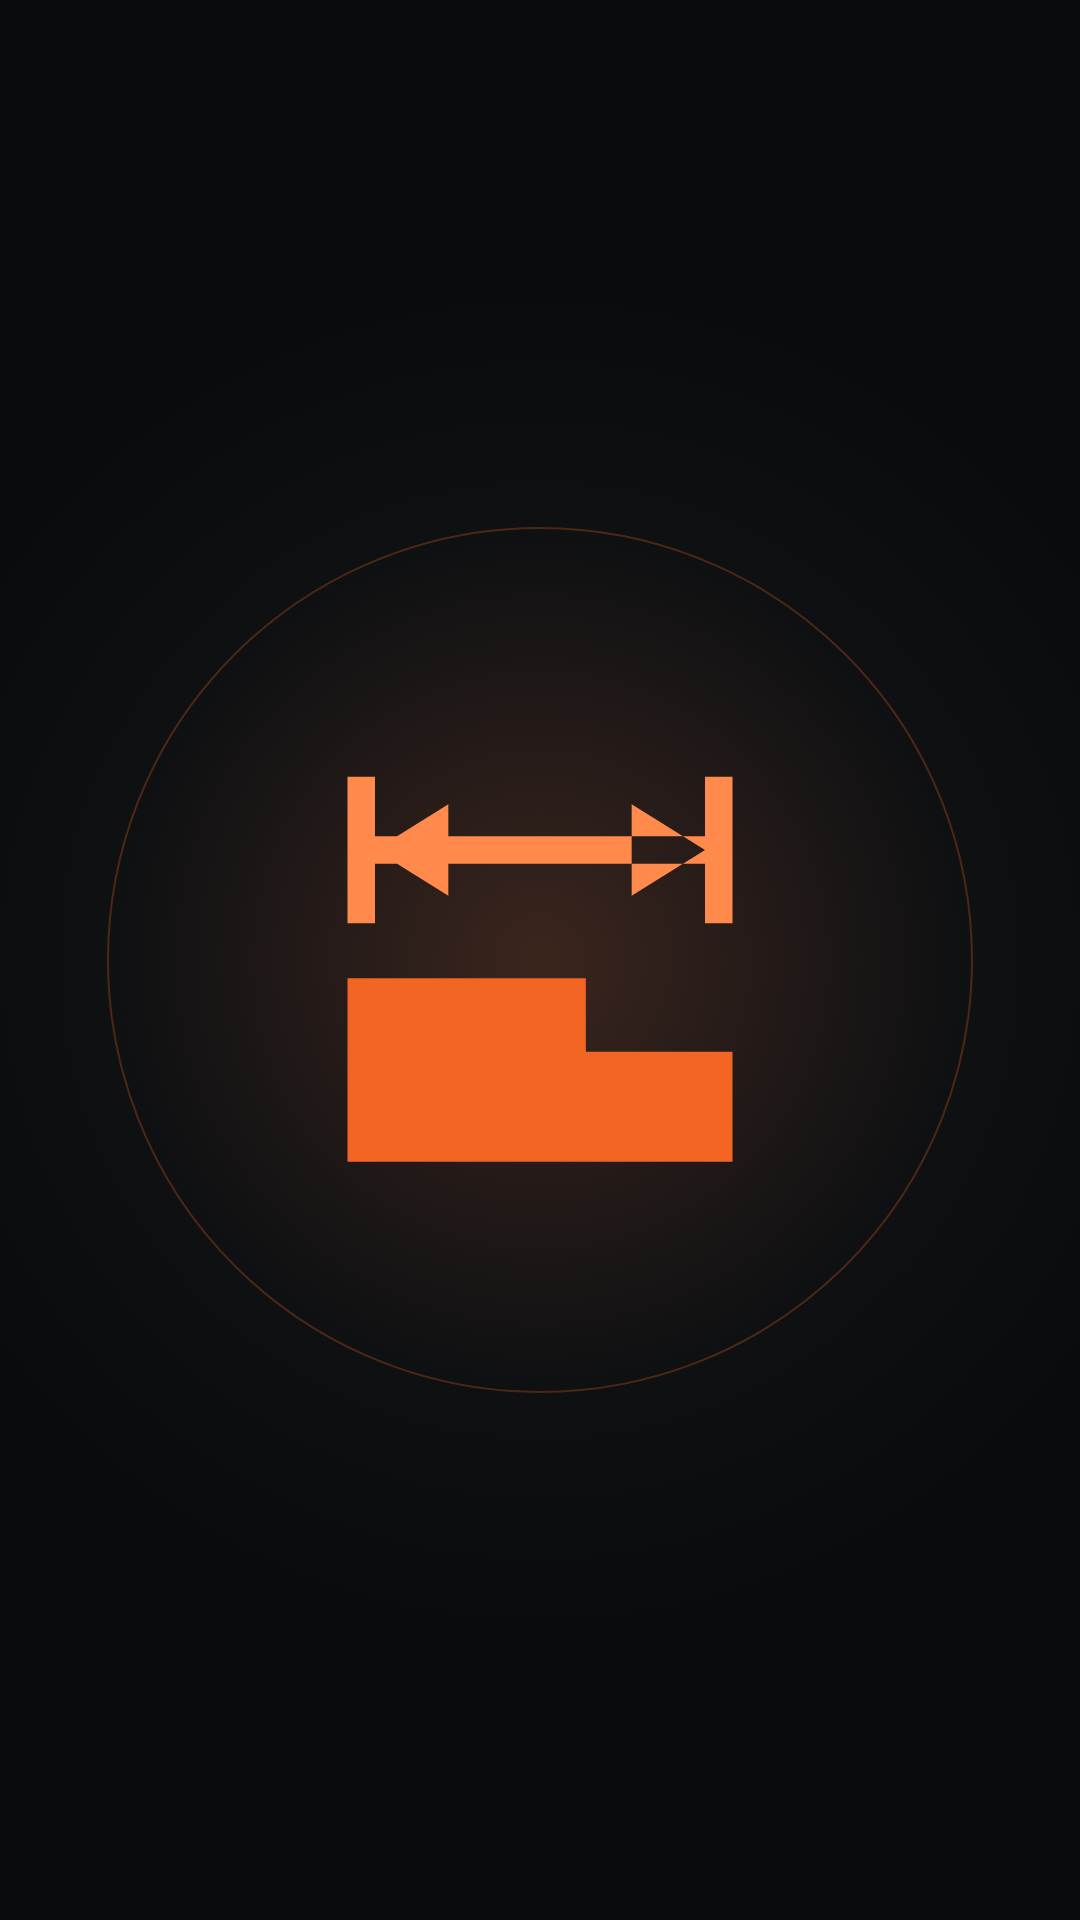
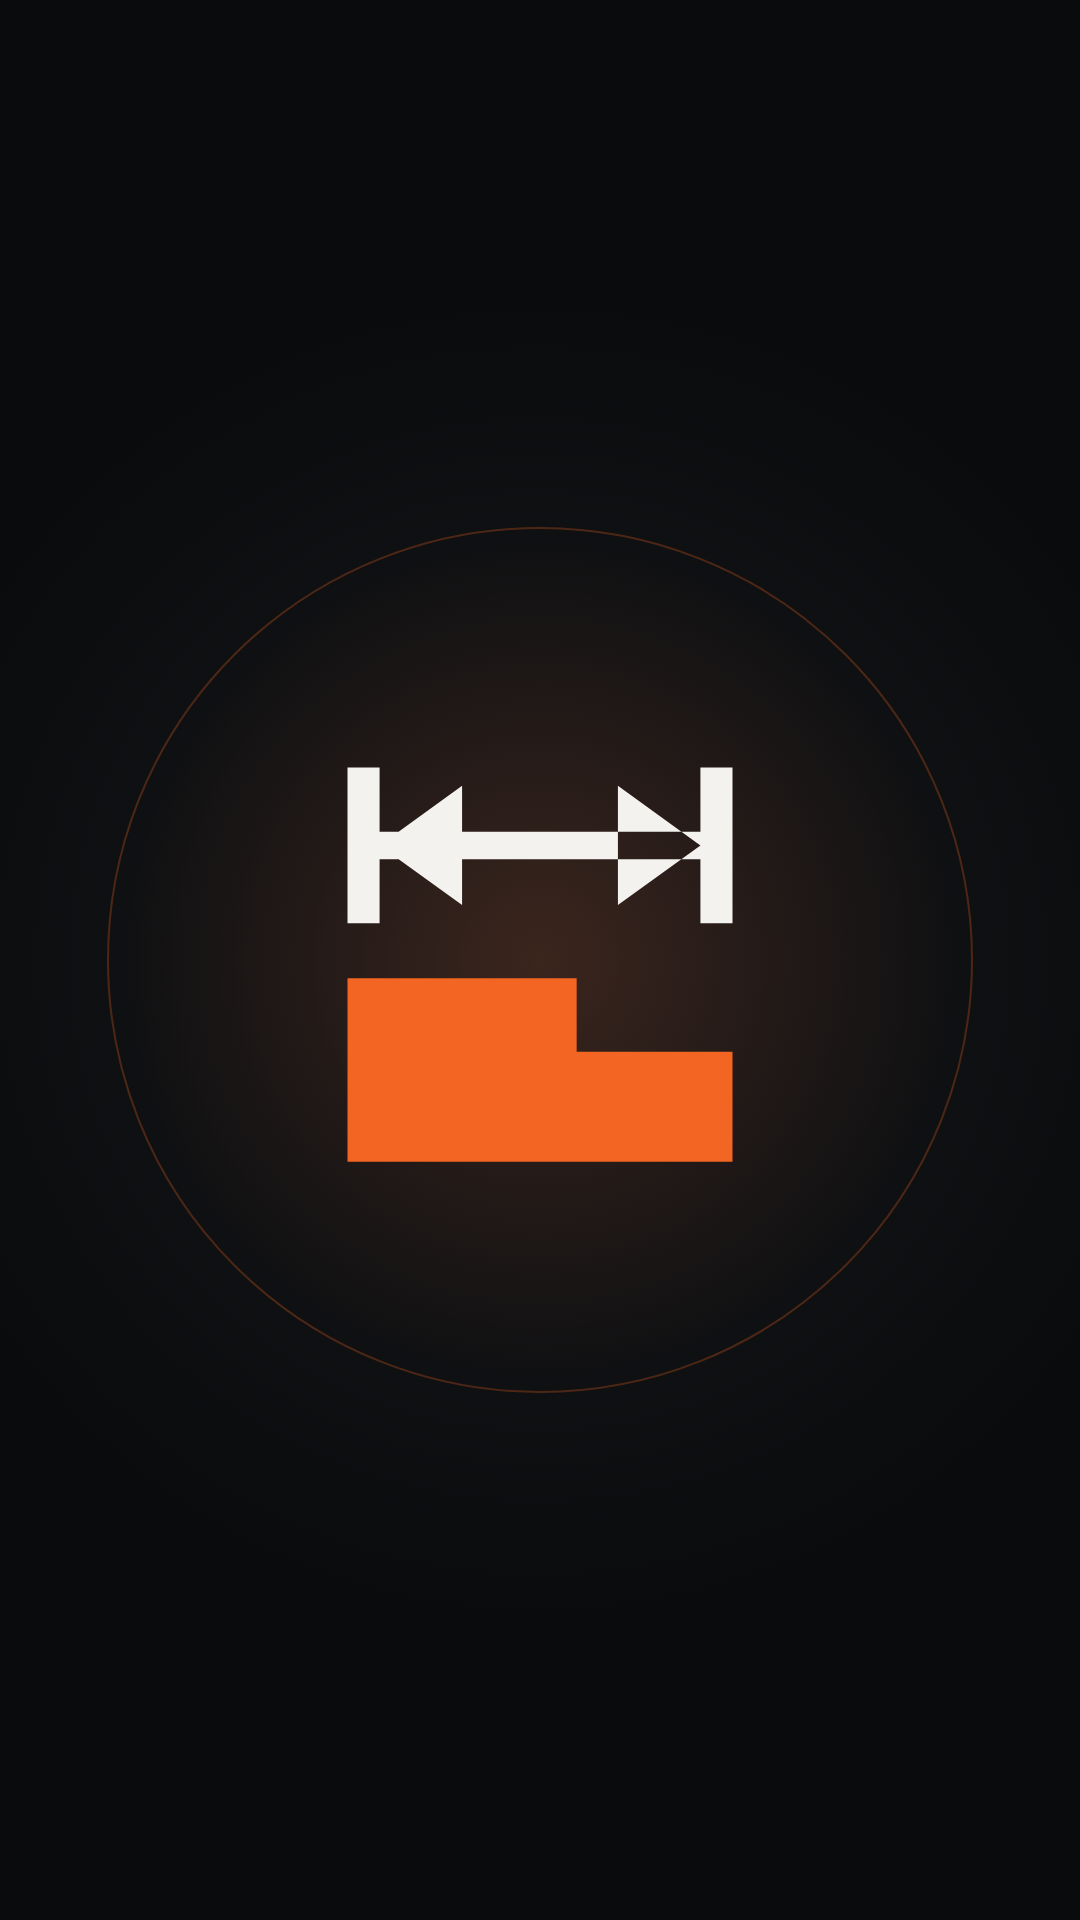
Instagram: destaques redesenhados com metáforas mais claras
Cada capa agora usa um símbolo reconhecível no tamanho real do
Instagram: moldura de foto (Portfólio), hotend com camadas (Impressão),
lápis com brilho (Personalizados), leque de cores (Cores), cubo em
wireframe (Modelagem), cota técnica (Sob medida), calculadora
(Orçamento), caminhão (Entregas) e balão com estrela (Feedbacks).
Mineral entra como segunda cor para contraste.

Claude-Session: https://claude.ai/code/session_011184PcH9G9ZqwwvJGvg2fK

Changed region(s): [[0.3056, 0.375, 0.7028, 0.5], [0.5194, 0.5, 0.55, 0.5625]]

diff --git a/assets/social/instagram/fonte/glifos.js b/assets/social/instagram/fonte/glifos.js
@@ -1,56 +1,95 @@
 // NYVOS — capas de destaques "Estrato"
-// Glifos sólidos construídos como o N: só blocos, degraus e cortes retos,
-// sombreados com a família de laranjas da marca sobre fundo quase preto.
+// Glifos sólidos, geometria reta como a do N, sombreados com os três laranjas
+// da marca + mineral como segunda cor, sobre fundo quase preto.
 const { SIMBOLO } = require("./art.js");
 
-const T = { luz: "#FF8A4C", base: "#F26522", esc: "#C94A12" };
+const T = { luz: "#FF8A4C", base: "#F26522", esc: "#C94A12", min: "#F3F2EE" };
 const FUNDO = { centro: "#18191C", borda: "#0A0B0D" };
 
 const p = (cor, d, extra = "") => `<path fill="${cor}" ${extra} d="${d}"/>`;
 
+// estrela de 5 pontas centrada em (cx, cy)
+function estrela(cx, cy, R, r) {
+  const pts = [];
+  for (let i = 0; i < 10; i++) {
+    const a = (-90 + 36 * i) * Math.PI / 180, k = i % 2 ? r : R;
+    pts.push(`${(cx + k * Math.cos(a)).toFixed(2)} ${(cy + k * Math.sin(a)).toFixed(2)}`);
+  }
+  return `M${pts.join("L")}Z`;
+}
+
+// cubo isométrico: vértices visíveis e arestas
+const V = { topo: [48, 8], dirS: [84, 28], dirI: [84, 68], base: [48, 88], esqI: [12, 68], esqS: [12, 28], frente: [48, 48] };
+const ARESTAS = [["topo", "dirS"], ["dirS", "dirI"], ["dirI", "base"], ["base", "esqI"], ["esqI", "esqS"], ["esqS", "topo"],
+  ["esqS", "frente"], ["dirS", "frente"], ["frente", "base"]];
+
 const GLIFOS = {
+  // a marca
   "01-sobre": `<g transform="translate(6 6) scale(.875)">${p(T.base, SIMBOLO)}</g>`,
 
-  // galeria 2×2 iluminada em diagonal
+  // moldura de foto com montanha em degraus (os degraus do N) e sol
   "02-portfolio":
-    p(T.luz, "M6 6H44V44H6Z") + p(T.base, "M52 6H90V44H52Z") +
-    p(T.base, "M6 52H44V90H6Z") + p(T.esc, "M52 52H90V90H52Z"),
+    p(T.base, "M6 14H90V82H6Z M14 22V74H82V22Z", 'fill-rule="evenodd"') +
+    p(T.luz, "M14 74V60H30V48H46V36H60V52H70V62H82V74Z") +
+    p(T.min, "M66 28H76V38H66Z"),
 
-  // bico depositando a camada (quente) sobre as camadas já impressas
+  // hotend (aletas, bloco, bico), fio saindo e peça sendo impressa
   "03-impressao":
-    p(T.base, "M28 4H68V28H28Z") + p(T.esc, "M38 28H58L52 42H44Z") +
-    p(T.luz, "M8 54H50V64H8Z") + p(T.base, "M8 69H88V79H8Z") + p(T.esc, "M8 84H88V94H8Z"),
+    p(T.esc, "M30 6H66V11H30Z M30 15H66V20H30Z M30 24H66V29H30Z") +
+    p(T.base, "M24 33H72V49H24Z") +
+    p(T.luz, "M40 49H56L52 58H44Z") +
+    p(T.min, "M12 62H52V70H12Z") +
+    p(T.base, "M12 74H84V82H12Z") +
+    p(T.esc, "M12 86H84V94H12Z"),
 
-  // "A" em blocos sublinhado: seu nome
+  // lápis + brilho: sua arte, feita pra você
   "04-personalizados":
-    p(T.base, "M12 76V18H24V6H72V18H84V76H64V54H32V76Z M32 38H64V24H32Z", 'fill-rule="evenodd"') +
-    p(T.luz, "M12 84H84V92H12Z"),
+    `<g transform="translate(57 53) rotate(45) scale(1.12)">` +
+      p(T.esc, "M-10 -45H10V-35H-10Z") +
+      p(T.luz, "M-10 -32H0V15H-10Z") + p(T.base, "M0 -32H10V15H0Z") +
+      p(T.min, "M-10 15H10L0 37Z") +
+      p(T.esc, "M-3.6 29L0 37L3.6 29Z") +
+    `</g>` +
+    p(T.min, "M22 6L25.5 18.5L38 22L25.5 25.5L22 38L18.5 25.5L6 22L18.5 18.5Z"),
 
-  // amostras de cor em cascata, descendo como os degraus do N
+  // leque de amostras de cor
   "05-cores":
-    p(T.luz, "M6 6H52V52H6Z") + p(T.base, "M25 25H71V71H25Z") + p(T.esc, "M44 44H90V90H44Z"),
+    [[-6, T.esc], [24, T.base], [54, T.min]]
+      .map(([ang, cor]) => `<g transform="rotate(${ang} 26 82)">${p(cor, "M14 6H38V82H14Z")}</g>`).join("") +
+    `<circle cx="26" cy="76" r="5" fill="${FUNDO.borda}"/>`,
 
-  // cubo sólido com as três faces na luz da marca
+  // cubo em wireframe com vértices, como num software 3D
   "06-modelagem":
-    p(T.luz, "M48 6L86 28L48 50L10 28Z") + p(T.base, "M10 28L48 50V94L10 72Z") + p(T.esc, "M86 28L48 50V94L86 72Z"),
+    p(T.base, "M48 8L84 28L48 48L12 28Z", 'opacity=".22"') +
+    ARESTAS.map(([a, b]) => `<line x1="${V[a][0]}" y1="${V[a][1]}" x2="${V[b][0]}" y2="${V[b][1]}" stroke="${T.base}" stroke-width="5"/>`).join("") +
+    Object.entries(V).map(([k, [x, y]]) => k === "frente"
+      ? `<rect x="${x - 8}" y="${y - 8}" width="16" height="16" fill="${T.min}"/>`
+      : `<rect x="${x - 6}" y="${y - 6}" width="12" height="12" fill="${T.luz}"/>`).join(""),
 
   // cota técnica sobre peça escalonada
   "07-sob-medida":
-    p(T.luz, "M6 8H12V40H6Z M84 8H90V40H84Z M12 21H84V27H12Z M12 24L28 14V34Z M84 24L68 14V34Z") +
-    p(T.base, "M6 52H58V68H90V92H6Z"),
+    p(T.min, "M6 6H13V40H6Z M83 6H90V40H83Z M13 20H83V26H13Z M13 23L31 10V36Z M83 23L65 10V36Z") +
+    p(T.base, "M6 92V52H56V68H90V92Z"),
 
-  // folha com dobra e linhas vazadas
+  // calculadora: visor mineral, teclas vazadas, "=" em destaque
   "08-orcamento":
-    p(T.base, "M14 4H62V24H82V92H14Z M26 44H70V51H26Z M26 58H70V65H26Z M26 72H52V79H26Z", 'fill-rule="evenodd"') +
-    p(T.luz, "M62 4L82 24H62Z"),
+    p(T.base, "M14 4H82V92H14Z" +
+      " M25 42H38V53H25Z M41.5 42H54.5V53H41.5Z M58 42H71V53H58Z" +
+      " M25 59H38V70H25Z M41.5 59H54.5V70H41.5Z M58 59H71V70H58Z" +
+      " M25 76H38V87H25Z M41.5 76H54.5V87H41.5Z", 'fill-rule="evenodd"') +
+    p(T.min, "M24 13H72V32H24Z") +
+    p(T.luz, "M58 76H71V87H58Z"),
 
-  // caixa com fita
+  // caminhão com baú e cabine
   "09-entregas":
-    p(T.esc, "M6 14H90V34H6Z") + p(T.base, "M12 34H84V92H12Z") + p(T.luz, "M41 14H55V58H41Z"),
+    p(T.base, "M4 18H58V70H4Z") +
+    p(T.esc, "M60 32H76L90 48V70H60Z M66 38V48H82L75 38Z", 'fill-rule="evenodd"') +
+    [22, 74].map((cx) => `<circle cx="${cx}" cy="74" r="11" fill="${T.min}"/><circle cx="${cx}" cy="74" r="4" fill="${FUNDO.borda}"/>`).join(""),
 
-  // aspas em degraus
-  "10-feedbacks": `<g transform="translate(0 6)">${
-    p(T.base, "M8 16H42V64H30V76H12V64H24V52H8Z") + p(T.luz, "M54 16H88V64H76V76H58V64H70V52H54Z")}</g>`,
+  // balão de fala com estrela de avaliação
+  "10-feedbacks":
+    p(T.base, "M6 10H90V70H42L24 88V70H6Z") +
+    p(T.min, estrela(48, 41, 21, 8.6)),
 };
 
 // capa: fundo quase preto com luz central, brilho laranja discreto e glifo centralizado

diff --git a/README.md b/README.md
@@ -11,7 +11,7 @@ Página única, autossuficiente, com foco em contato.
   - `png/` — versões rasterizadas (256–4096 px)
   - `social/` — artes para redes (post, header, faixa)
     - `instagram/perfil/` — foto de perfil (4 variações, 1080 e 2048 px + SVG)
-    - `instagram/destaques/` — 10 capas de destaques 1080×1920 "Estrato": glifos em blocos, como o N, nos três laranjas da marca sobre fundo quase preto (+ SVG)
+    - `instagram/destaques/` — 10 capas de destaques 1080×1920 "Estrato": glifos sólidos na geometria do N, nos três laranjas da marca + mineral, sobre fundo quase preto (+ SVG)
     - `instagram/fonte/` — gerador (`node fonte/render.js <saida>`, requer Playwright)
   - `favicon/` — ícones 16–512 px + `.ico`
 
